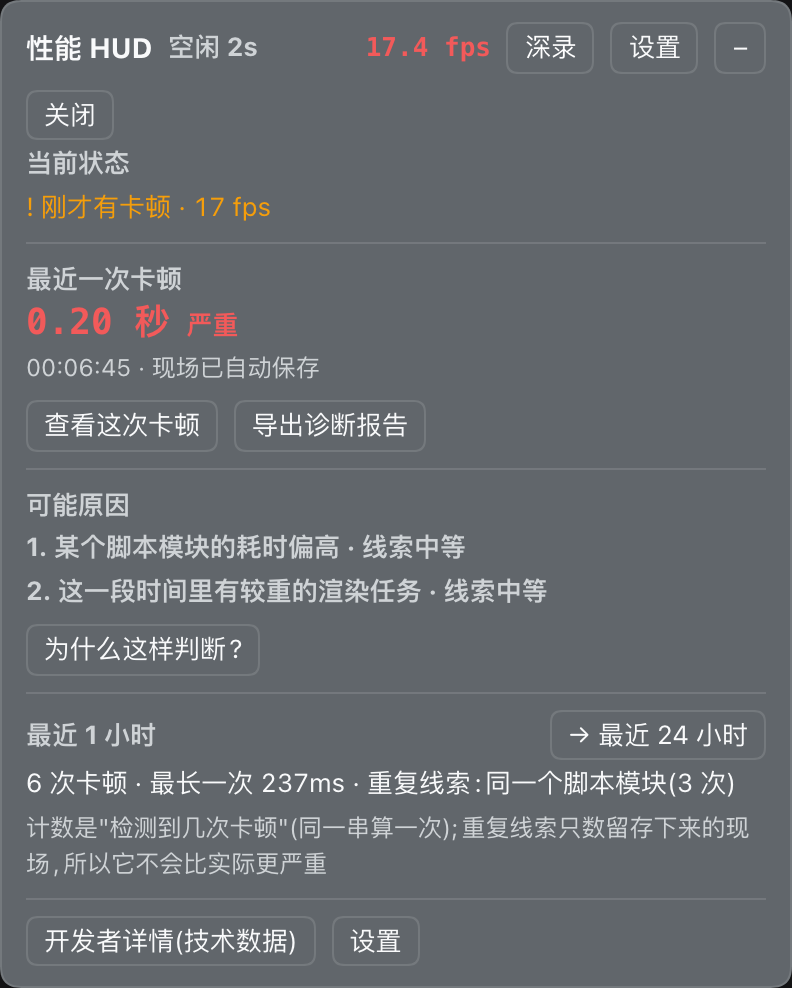
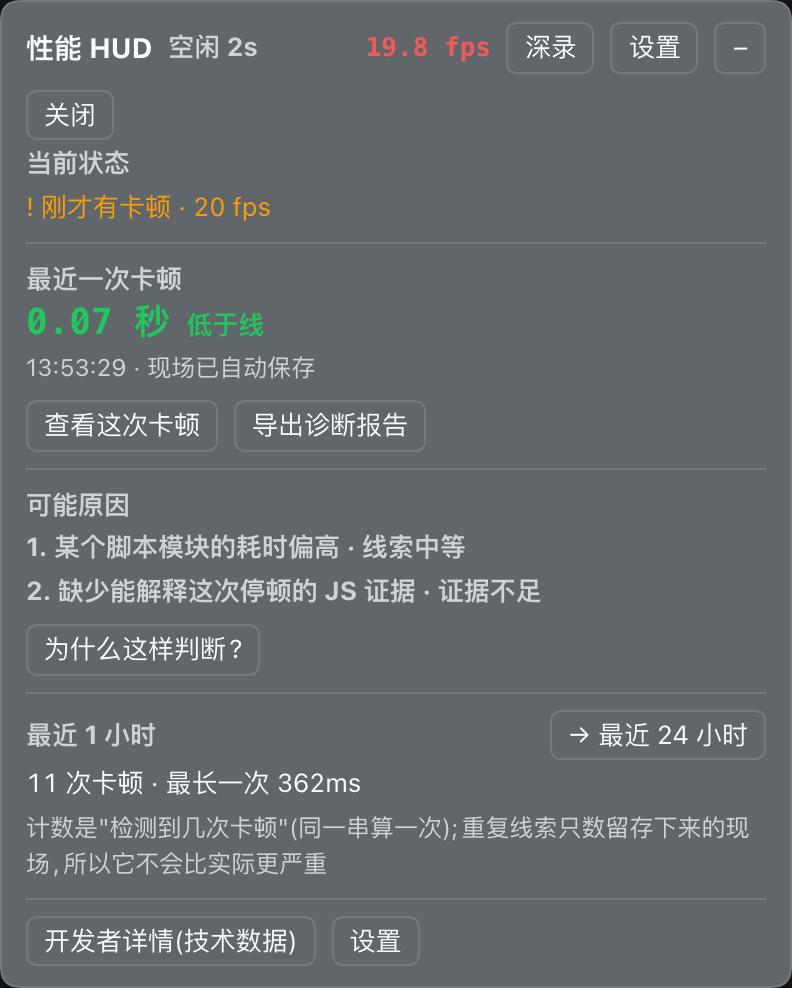
fix(panel): 宿主摘要标出分位数并把判定移出摘要,真页面验收全绿
收尾 review 实施时在**真页面**上发现的三处问题(都不是离线套件能发现的):

1. **宿主摘要按 review 原话改会破预算**:`宿主 p99 24.04ms · RTT p99 100.6ms · RTT 存疑`
   = 41 字符 > 摘要的 34 预算(真机截图里折成两行),而改动前是 33 字符、正好一行 ——
   review 只看"粒度不一致"、没算宽度。现在**保留 p99 标记**(它的论点是成立的),
   同时把**判定那一句移出摘要**:判定已经是展开后的第一行(`宿主 event-loop · 判定`),
   摘要再说一遍就是同一句话说两遍(与 review §3.1-3 对工具箱的判断同一条规矩);
   而且它最长那句(`链路已排除(宿主与隧道均正常)`,16 字)本来就把摘要顶到 43 字符 ——
   那个折行是**改动之前就有**的,桩喂 `未采集` 的旧断言没测到。
   真实量级(四位数 + 小数)下现在是 34 字符、一行。补一条**喂真实量级**的预算断言:
   桩里的小数字挡不住这类回归(这正是 §8 第 13 条的形态)。

2. **`check-counts.mjs` 的样本还有第二层竞态**(只有接在 `shots.mjs` 之后跑才复现):
   手动标记的 severity 是 **0**,而留存是"最差 10 + 每天最差 1" —— 页面里已有 8~10 条
   真实卡顿时这条标记会被 `keepIncident` 判 `dropped`,样本根本不在清单里;不清残留的话,
   旧写法 `list.find(有备注的)` 会取到**上一轮留下的那条**,三条 ZIP 断言验的不是这次的标记。
   现在 `check-counts.mjs` 与 `shots.mjs` **都先 `clearIncidents()`(不动计数桶)再取样** ——
   验收器不许依赖上一轮的残留。顺带把 `shots.mjs` 同样的 capture 竞态一起修掉,
   README 的图里也不该出现使用者真实会话留下的证据。
   产品侧"标记没留住却不告知"没有改(§9.3-3,要连着 UI 语义一起定):计数侧记了
   `triggered` / `dropped`,不是数据说谎,是交互没说。

3. **漏文案检测修对之后立刻报出一条假阳性**:`sessions` 既是词典键,又是「原始数据」屏
   照实列出的 `dsh-perf-hud:sessions:v1` 键名。加一张 `DATA_LIKE_KEYS` 显式白名单
   (并断言白名单不过期),而不是把扫描器改回睁一只眼。

真页面验收(**前两个提交的信息里写的"未跑"作废**):五个验收器全绿 ——
`check-panel`(删了 10 个函数、改了渲染路径之后仍 0 错误,这条挡的正是"离线全绿、
浏览器里炸掉")、`check-storage`、`check-counts`(含 ZIP 真字节,接在 shots 之后也绿)、
`check-incident`(历史事故逐帧回放)、`check-interaction`;`shots.mjs` 重出九张图到
`docs/images/`(改了文案就得重出,见 AGENTS §2.2)。

断言 585 → **586**(新增那条真实量级的宿主摘要预算);ci.yml / release.yml / README /
[…]

diff --git a/client.js b/client.js
@@ -5982,7 +5982,10 @@ window.__ModuleLoader__.load({
 			// ⚠ 折叠态与展开态必须同一个粒度,否则读者会把 p99 当成均值:展开那一行写的是
 			// `p50 X · p99 Y · 最大 Z`(hostLoopText),这里也照写分位名(RTT 那一行同理)。
 			const host = state.hostError !== null ? translate('hostDown') : eventLoop === null ? translate('notYet') : `p99 ${eventLoop.p99}ms`;
-			return `${translate('hostShort')} ${host} · ${translate('linkShort')} ${link.count === 0 ? translate('notYet') : `p99 ${link.p99}ms`} · ${infraVerdict().text}`;
+			// 判定(`infraVerdict()`)刻意**不进摘要**:它已经是展开后的第一行(标签 `宿主 event-loop · 判定`),
+			// 摘要再说一遍就是同一句话说两遍(§5);而且它最长那句(`链路已排除(宿主与隧道均正常)`,16 字)
+			// 会把这一行顶到 43 字符,在 396px 里必然折行 —— 摘要 34 字符的预算容不下它。
+			return `${translate('hostShort')} ${host} · ${translate('linkShort')} ${link.count === 0 ? translate('notYet') : `p99 ${link.p99}ms`}`;
 		}
 
 		/**

diff --git a/CHANGELOG.md b/CHANGELOG.md
@@ -5,19 +5,19 @@
 ## 未发布
 
 ### 重构
-- **死代码层清掉:`4393ea8` 撤面板入口时没收回来的函数、状态位与词典键**(2026-10-13,`review/2026-10-13-audit` 的实施)。`experimentText` / `beyondNoiseText` / `metricList` / `stressText` / `eventTitleText` / `tallyText` / `pkgWhoText` / `invokerWhoText` / `replaySplitText` / `levelDown` 十个函数在 `client.js` 里**零调用点**,却被 `tests/logic.mjs` 抽出来断言着 —— **改坏了没有任何界面会变,CI 却全绿**(与已还的 `pkgZeroText` 同一形态)。现在函数、`extract` / `pieces` 条目与对应断言一起删(`metricList` 是删 `beyondNoiseText` 之后才暴露出来的级联),连带只被它们引用的 **13 个词典键**(中英各 409 → **396**)、`state.markDraft` 与 `PerfHud()` 里三个未用局部(`v` / `tally` / `unexplained`)。重新扫:**0 个候选**(`node tools/dead-code.mjs`,判据保守,不是门禁)。断言 603 → **585**(attribution 11 / logic 533 / host 41)。
+- **死代码层清掉:`4393ea8` 撤面板入口时没收回来的函数、状态位与词典键**(2026-10-13,`review/2026-10-13-audit` 的实施)。`experimentText` / `beyondNoiseText` / `metricList` / `stressText` / `eventTitleText` / `tallyText` / `pkgWhoText` / `invokerWhoText` / `replaySplitText` / `levelDown` 十个函数在 `client.js` 里**零调用点**,却被 `tests/logic.mjs` 抽出来断言着 —— **改坏了没有任何界面会变,CI 却全绿**(与已还的 `pkgZeroText` 同一形态)。现在函数、`extract` / `pieces` 条目与对应断言一起删(`metricList` 是删 `beyondNoiseText` 之后才暴露出来的级联),连带只被它们引用的 **13 个词典键**(中英各 409 → **396**)、`state.markDraft` 与 `PerfHud()` 里三个未用局部(`v` / `tally` / `unexplained`)。重新扫:**0 个候选**(`node tools/dead-code.mjs`,判据保守,不是门禁)。断言 603 → **586**(attribution 11 / logic 534 / host 41)。
 - **`snapshot()` 不再是"读 + 写"**:`sessionBaselines()` 以前直通 `saveSessionBaseline()`,于是**文档承诺的只读 API 每被调一次就重写一遍 `localStorage` 的跨会话基线**(五个真页面验收器每轮会调它若干次,多数只为读 `errors`)。现在拆成 `readSessionBaselines()`(纯读)+ `mergeSessionBaseline()`(合并本次会话但**不写盘**)+ `saveSessionBaseline()`(只由 `pagehide` 调),导出件的内容**逐字不变**(仍含当前会话,仍最多 20 条),只是不再落盘;新增断言钉住"调 `sessionBaselines()` 前后 `localStorage` 一个字节都没变"。
 - **帧条不再白扫整个环**:`frameRing.slice()` 从环头正扫改成**从最新一帧倒着走、遇到 `at < from` 就停**。环容量 12000(60fps ≈ 3.3 分钟),而调用方只要最近 60 秒(≈3600 条)—— 展开「取证明细」时每个渲染 tick 白扫约 8400 条,正是"测量工具自己变成被测开销"那条边界要挡的事。倒扫依赖"环按时间升序"这条不变式(生产里每帧只经 rAF 循环 push 一次);一条构造出乱序环的旧用例因此改用 `triggerCapture` 起捕获,并把这个不变式写进注释。
 - **导出件的 `timeline.last60s` 删掉**:它是 `timeline.samples` 的子集(500 条环约 106KB,它重复约 13KB),而全仓唯一引用是一句 `Array.isArray`。
 
 ### 修复
 - **诊断包 `manifest.files` 的顺序说错了**:manifest 在描述"这份包里有什么"时把 `summary.md` 排在第一,而 `buildPack()` 与 UI 词典 `packFilesValue` 都是 `manifest.json` 在最前(它是入口,注释也这么写)。现在三处一致,并补一条断言(manifest 描述的顺序 == 包里真实的顺序)。
-- **折叠态与展开态对同一个数用了不同粒度**:宿主摘要写 `宿主 24.04ms`(实际是 p99),展开那一行写 `p50 X · p99 Y · 最大 Z` —— 读者会把折叠态的数当成均值。现在摘要也写 `p99 Xms`(宿主与 RTT 两处)。
+- **折叠态与展开态对同一个数用了不同粒度**:宿主摘要写 `宿主 24.04ms`(实际是 p99),展开那一行写 `p50 X · p99 Y · 最大 Z` —— 读者会把折叠态的数当成均值。现在摘要也写 `p99 Xms`(宿主与 RTT 两处)。⚠ 按 review 的原话"两处都加 p99"会把这一行从 33 字符顶到 41,而摘要预算是 **34**(真机截图里折成了两行)—— 所以同时把**判定那一句从摘要里拿掉**:它已经是展开后的**第一行**(标签 `宿主 event-loop · 判定`),摘要再说一遍就是同一句话说两遍;而且它最长那句(`链路已排除(宿主与隧道均正常)`,16 字)本来就把摘要顶到 43 字符,那个折行**改动之前就有**(桩喂 `未采集` 的那条断言没测到)。现在真实量级(四位数 + 小数)下是 `宿主 p99 1234.5ms · RTT p99 1234.5ms` = 34,一行放得下;并补了一条**喂真实量级**的预算断言(桩里的小数字挡不住这类回归)。
 - **工具箱折叠摘要与展开后第一行说同一句话**(`守夜 5 次 · 最差 282ms` vs `抓到 5 次 · 最差 282ms`):摘要改成折叠态独有的信息 `守夜 N 次 · 24h 检测 M 次`(跨刷新、24 小时口径),`抓到 / 最差 / 读回 / 裁掉` 仍只由展开后那一行给。
 - **`localStorage` 键位清单两处都不全**:面板那行只列 7 个、README 列 11 个,而代码里有 **13 个**;两处都漏了 **`:deep`**(它决定下次打开是守夜档还是深录档)。现在面板与 README 对齐成同一份 13 项清单,并把"会改变采集档位"的三个(`:on` / `:deep` / `:precise`)点出来。
 - **`__perfHud.marks()` 在 README 里承诺过却没实现**:`4393ea8` 撤「场景标记」面板入口时给的出口一直是空的。现在补上只读 getter(`marks: () => state.marks`),并加静态断言防止它再消失。
 - **`crossSummary`(第 5 个折叠组摘要)没有长度预算**:真实量级的名字 `dsh-client-ui-renderer · DOMWebSocket.onmessage 1234ms` = **53** 字符,在 396px 里会把摘要折成参差两行。现在 `clipName()` 把两个名字各截到 14 / 15 字符(完整名字在展开后的交叉表里),并补上**拿真实量级名字喂**的预算断言(≤ 40 字符 + 必须出现省略号)。
-- **`check-counts.mjs` 的"有时绿"**:它等 `pending === null` 就立刻 `capture()`,但等待期间守夜可能又自己触发一次,手动标记被并进 pending、样本不带备注 —— 第一次跑 3 条 FAIL、重跑三次全过。现在看 `capture()` 的返回值(`{ok, reason}`)**重试**,并按 `capture().incident.id` 取回刚标记那条,不再用"谁有备注就取谁"的启发式。这种抖动比红更糟:它会训练人忽略失败。
+- **`check-counts.mjs` 的"有时绿"**:它等 `pending === null` 就立刻 `capture()`,但等待期间守夜可能又自己触发一次,手动标记被并进 pending、样本不带备注 —— 第一次跑 3 条 FAIL、重跑三次全过。现在看 `capture()` 的返回值(`{ok, reason}`)**重试**,并按 `capture().incident.id` 取回刚标记那条,不再用"谁有备注就取谁"的启发式。⚠ 实施时又发现**第二层**:手动标记的 severity 是 **0**,留存策略是"最差 10 + 每天最差 1" —— 页面里已有 8~10 条真实卡顿时这条标记会被**挤掉**,样本根本不在清单里;不清残留的话,旧写法会取到**上一轮留下的那条**,三条 ZIP 断言验的就不是这次的标记(实测:接在 `shots.mjs` 之后跑必翻车)。所以 `check-counts.mjs` 与 `shots.mjs` 都先 `clearIncidents()`(不动计数桶)再取样 —— 验收器不许依赖上一轮的残留。这种抖动比红更糟:它会训练人忽略失败。**顺带**:`shots.mjs` 的样本竞态与残留事故同样修掉(README 的图里也不该出现使用者真实会话的证据)。
 - **宿主半的 confirm 安全线只钉住了一半**:`setBundle` 的 deny 名单有两项(自己 + `session-persistence-jsonl`),而 `tests/host.mjs` 只测了"拒绝动自己"。补上第二条,并断言两条都拒绝时**一次都没写**。
 - **README 的两处漂移**:`exportPack` 那行还写着"逐个文件下载(P1 换成一个 zip)"(zip 已在 `f92399e` 落地);`NEXT-PHASE-PLAN.md` 的"下一轮"清单里 zip 也还在待办。
 

diff --git a/REVIEW.md b/REVIEW.md
@@ -16,7 +16,7 @@
 | 3 | 声明 `dsh.bundle.patch` | ✅ 这是市场收录**最常见的被拒原因**;`cordis.patch.yml` 形态正确 |
 | 4 | 公开仓库 + `dsh-plugin` topic + 创建满 1 天 | ✅ 已公开,`dsh-plugin` 等 6 个 topic 在场(2026-10-11 `gh repo view` 实测 `PUBLIC`) |
 | 5 | 产物无死链 | ✅ README / AGENTS 链接到的文档全在 `files` 里;`release.yml` 的 Pack and inspect 逐份 grep,而且 **`tools/` 与 `locale/` 按目录核**(以后加验证器或加语言文件不会漏检),显式清单 + 目录共覆盖包内全部 **18** 个文件(含 `package.json`),漏一份就失败 |
-| 6 | 门禁全绿 | ✅ 585 条离线断言;CI = 两个半边的 `node --check` + 三套件 + 「断言总数与文档一致」 |
+| 6 | 门禁全绿 | ✅ 586 条离线断言;CI = 两个半边的 `node --check` + 三套件 + 「断言总数与文档一致」 |
 | 7 | 投稿形式 | ⬜ 只提**一个文件** `data/plugins/<owner>__<repo>.yml`(必填 `description.en`),一个 PR 最多 3 条 |
 | 8 | 兼容性声明 | ✅ 三个客户端 inject 包与 `engines.dsh` 统一 `>=0.2.0-rc.2 <0.3.0-0`(按预检口径 `satisfies(host, range, {includePrelease:true})` 实测 PASS) |
 
@@ -34,7 +34,7 @@
 
 | 判据 | 怎么验 | 最新实测 |
 |---|---|---|
-| 离线断言全绿 | `npm test` | **585** 条(attribution 11 / logic 533 / host 41) |
+| 离线断言全绿 | `npm test` | **586** 条(attribution 11 / logic 534 / host 41) |
 | 面板能渲染、不自我崩 | 真实页面 `snapshot().errors` | **0**(CDP 反复打开真实页面验过;自带 `HudBoundary` 兜底) |
 | 守夜层能自动抓 | `__perfHud.watch()` | 真实会话:captured **25** · coalesced 102 · dropped 18 · kept 10 |
 | 守夜默认**零插桩** | `snapshot().instrumented` 在三种模式下的取值 | 默认(不插桩)档:`precise: false` / `instrumented: false`,`errors: 0` —— 守夜档仍然零插桩;点「深录」→ `true / true`;点回去 → `false / false`,`errors` 全程 0 |

diff --git a/README_EN.md b/README_EN.md
@@ -301,9 +301,9 @@ the offline suites assert its shape directly — a future UI rewrite or MCP serv
 
 ```sh
 node tests/attribution.mjs   # 11 assertions: script URL shapes → package name / bundle key
-node tests/logic.mjs         # 533 assertions: real functions extracted from client.js + static checks + length budgets
+node tests/logic.mjs         # 534 assertions: real functions extracted from client.js + static checks + length budgets
 node tests/host.mjs          # 41 assertions: real index.js driven by a fake ctx
-# 585 offline assertions total, no running DSH required
+# 586 offline assertions total, no running DSH required
 ```
 
 The i18n dictionary now has **396 keys per language** (the two dictionaries must have identical key sets, and every key must be referenced — keys left behind when a UI element is removed are reported by an assertion).

diff --git a/README.md b/README.md
@@ -311,9 +311,9 @@ dsh plugin --profile web add "$PWD"
 
 ```sh
 node tests/attribution.mjs   # 11 条:脚本 URL 形状 → 包名 / bundle key
-node tests/logic.mjs         # 533 条:从 client.js 抽真函数进沙箱 + 静态检查 + 长度预算
+node tests/logic.mjs         # 534 条:从 client.js 抽真函数进沙箱 + 静态检查 + 长度预算
 node tests/host.mjs          # 41 条:用假 ctx 驱动真实 index.js
-# 合计 585 条断言,离线,无需 DSH 在跑
+# 合计 586 条断言,离线,无需 DSH 在跑
 ```
 
 i18n 词典现在是**中英各 396 键**(两本字典键集合必须一致,且每个键都得有人引用 —— 撤下界面时留下的死键会被断言报出来)。
